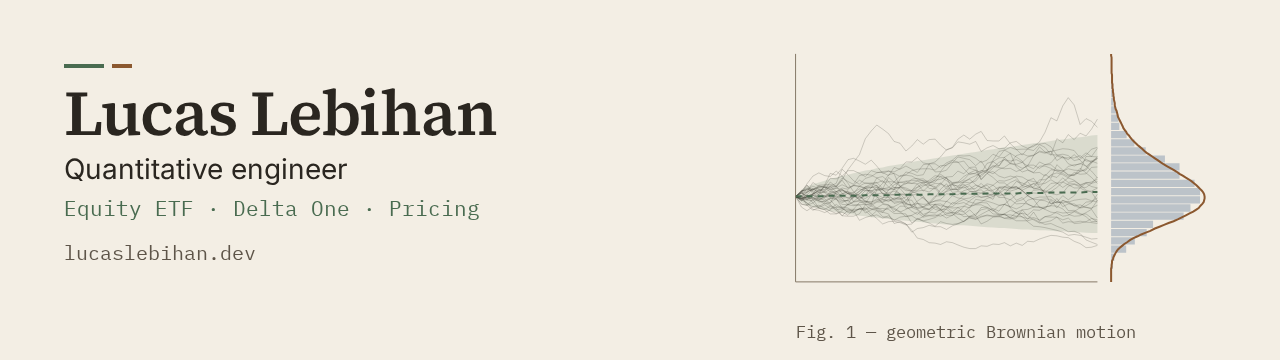
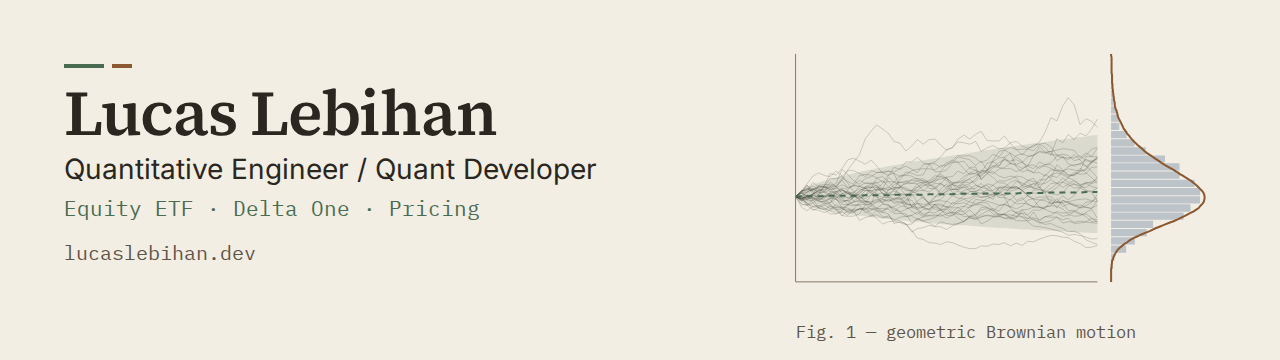
Use the Quant Developer headline, state the Paris base and Geneva mobility
Refresh the header artwork from the identity package, track portfolio visits
from GitHub, link the résumé, and list the account fields to update.

Claude-Session: https://claude.ai/code/session_012vfscv8XZuCpYDAQCXvBwg

diff --git a/ASSETS.md b/ASSETS.md
@@ -1,8 +1,8 @@
 # Profile artwork
 
 The light and dark PNG headers in `assets/` are 1280 × 360 exports of the
-paper-and-sage professional identity: Lucas Lebihan, Quantitative Engineer,
-Equity ETF · Delta One · Pricing, beside the portfolio's Fig. 1 (a simulated
+paper-and-sage professional identity: Lucas Lebihan, Quantitative Engineer /
+Quant Developer, Equity ETF · Delta One · Pricing, beside the portfolio's Fig. 1 (a simulated
 geometric Brownian motion). The README uses native GitHub colour-scheme selection,
 with a light fallback and a descriptive text alternative.
 
@@ -18,10 +18,14 @@ If the authenticated CLI token lacks the `user` scope, use GitHub's profile UI:
 
 1. Open your GitHub profile and choose **Edit profile**.
 2. Set **Name** to `Lucas Lebihan`.
-3. Set **Bio** to `Quantitative Engineer · Equity ETF · Delta One · Pricing`, the tagline shared
-   with the portfolio, the résumé and LinkedIn.
-4. Set **Website** to `https://lucaslebihan.dev/en/`.
-5. Save. Keep the current avatar and other personal settings.
+3. Set **Bio** to `Quantitative Engineer / Quant Developer · Equity ETF · Delta One · Pricing`,
+   the tagline shared with the portfolio, the résumé and LinkedIn.
+4. Set **Location** to `Paris, France`.
+5. Set **Website** to `https://lucaslebihan.dev/en/?ref=gh`; the `ref` tells the portfolio's
+   server logs which visits GitHub brought.
+6. Under **Social accounts**, add `https://www.linkedin.com/in/lucascjlebihan`.
+7. Optionally tick **Available for hire**.
+8. Save. Use the same headshot as LinkedIn as the avatar.
 
 For repository social previews, open the repository's **Settings → General →
 Social preview**, and upload its 1200 × 630 PNG from the identity package.

diff --git a/README.md b/README.md
@@ -1,20 +1,23 @@
 <picture>
   <source media="(prefers-color-scheme: dark)" srcset="assets/profile-dark.png">
   <source media="(prefers-color-scheme: light)" srcset="assets/profile-light.png">
-  <img alt="Lucas Lebihan — Quantitative Engineer. Equity ETF · Delta One · Pricing. Beside it, a simulated geometric Brownian motion with its terminal histogram and lognormal density." src="assets/profile-light.png">
+  <img alt="Lucas Lebihan — Quantitative Engineer / Quant Developer. Equity ETF · Delta One · Pricing. Beside it, a simulated geometric Brownian motion with its terminal histogram and lognormal density." src="assets/profile-light.png">
 </picture>
 
 # Lucas Lebihan
 
-**Quantitative Engineer · Equity ETF · Delta One · Pricing**
+**Quantitative Engineer / Quant Developer · Equity ETF · Delta One · Pricing**
+
+Based in Paris, open to relocating to Geneva or Annecy.
 
 I build software for quantitative finance: numerical models, Python APIs,
 market-data pipelines and interactive tools. My projects connect financial
 concepts with the engineering needed to test, explain and operate them.
 
-**[Portfolio](https://lucaslebihan.dev/en/)**
+**[Portfolio](https://lucaslebihan.dev/en/?ref=gh)**
 · **[LinkedIn](https://www.linkedin.com/in/lucascjlebihan)**
 · **[Try the interactive option-pricing lab](https://pricing.lucaslebihan.dev/)**
+· **[Résumé (PDF)](https://lucaslebihan.dev/cv-en.pdf)**
 · **[Contact me](mailto:contact@lucaslebihan.dev)**
 
 ## Selected projects
